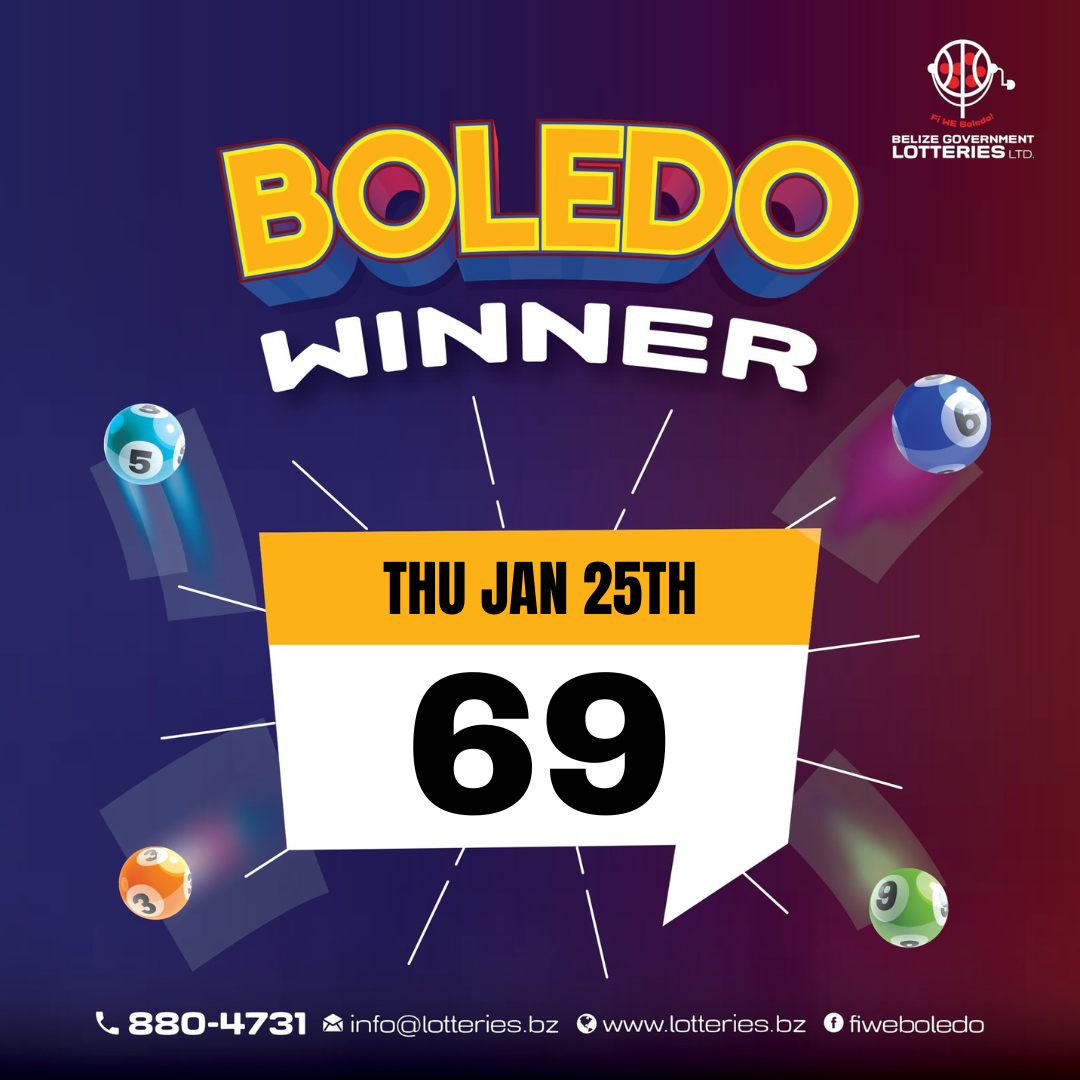
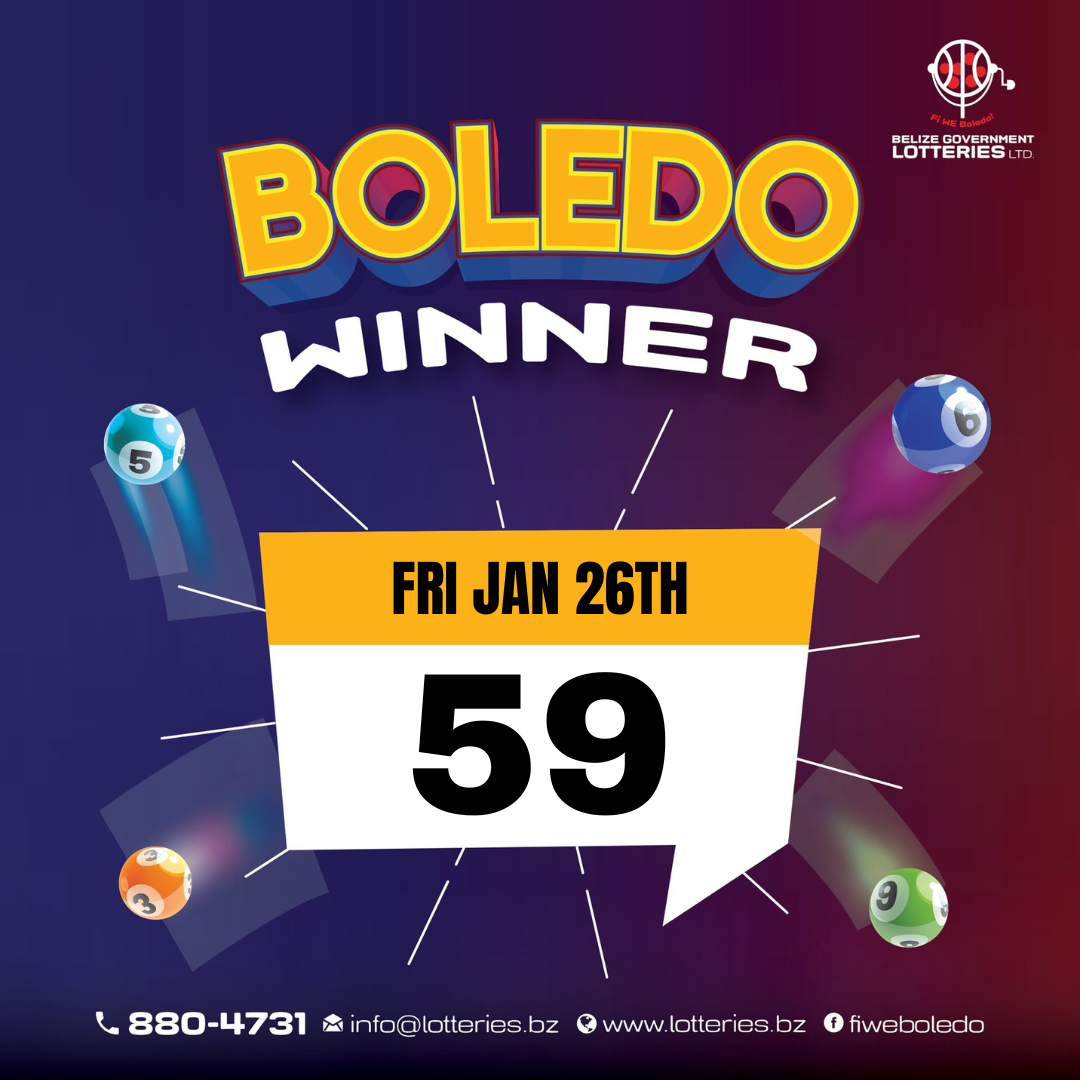
Updated Winning Number

diff --git a/index.html b/index.html
@@ -22,13 +22,13 @@
     <div class="container mt-4" id="main-content">
         <!-- Home Page Content -->
         <div id="home">
-            <div class="row text-center pb-4">
+            <div class="row text-center pb-4 smallScreenPadding">
                 <h3>FI WE FUN! &nbsp;FI WE PROFITS! &nbsp;FI WE BOLEDO!</h3>
                 <a href="/about.html">Find Out More About BGLL <span><img src="/assets/icons/link-solid.svg"
                             alt="Link Icon" width="20" height="auto"></span></a>
             </div>
 
-            <div class="row text-center mx-4 pb-4">
+            <div class="row text-center mx-4 pb-4 smallScreenPadding">
                 <h4 class="mt-2">WINNING NUMBERS</h4>
                 <div id="imageContainer" class="mx-auto">
                     <img src="/assets/home/Weekly Winning Numbers-1.png" alt="This Week Winning Numbers"
@@ -50,7 +50,7 @@
                             alt="Link Icon" width="20" height="auto"></span></a>
             </div>
 
-            <div class="row text-center mx-4 py-4">
+            <div class="row text-center mx-4 py-4 smallScreenPadding">
                 <hr>
                 <h4>OFFICIAL LOTTERIES GAMES</h4>
                         <div class="row pt-2">

diff --git a/winningNumbers.js b/winningNumbers.js
@@ -47,7 +47,7 @@ var ordinaryLotteryDatabase = {
     "07/01/2024": '39',
     "14/01/2024": '79',
     "21/01/2024": '27',
-    "28/01/2024": '',
+    "28/01/2024": '22',
 
 };
 
@@ -60,5 +60,5 @@ var jackpotDatabase = {
     "07/01/2024": ['8039', '2285', '8542'],
     "14/01/2024": ['5379', '6787', '5648'],
     "21/01/2024": ['3727', '2476', '9068'],
-    "28/01/2024": ['', '', '']
+    "28/01/2024": ['1222', '9179', '9505']
 };

diff --git a/style.css b/style.css
@@ -179,7 +179,13 @@ li {
 }
 
 /* Styling for the horizontal lines on larger screens */
-@media (min-width: 768px) {}
+@media (max-width: 768px) {
+    .smallScreenPadding{
+        padding-top: 2rem;
+        padding-bottom: 2rem;
+    }
+    
+}
 
 
 @media (max-width: 768px) {
